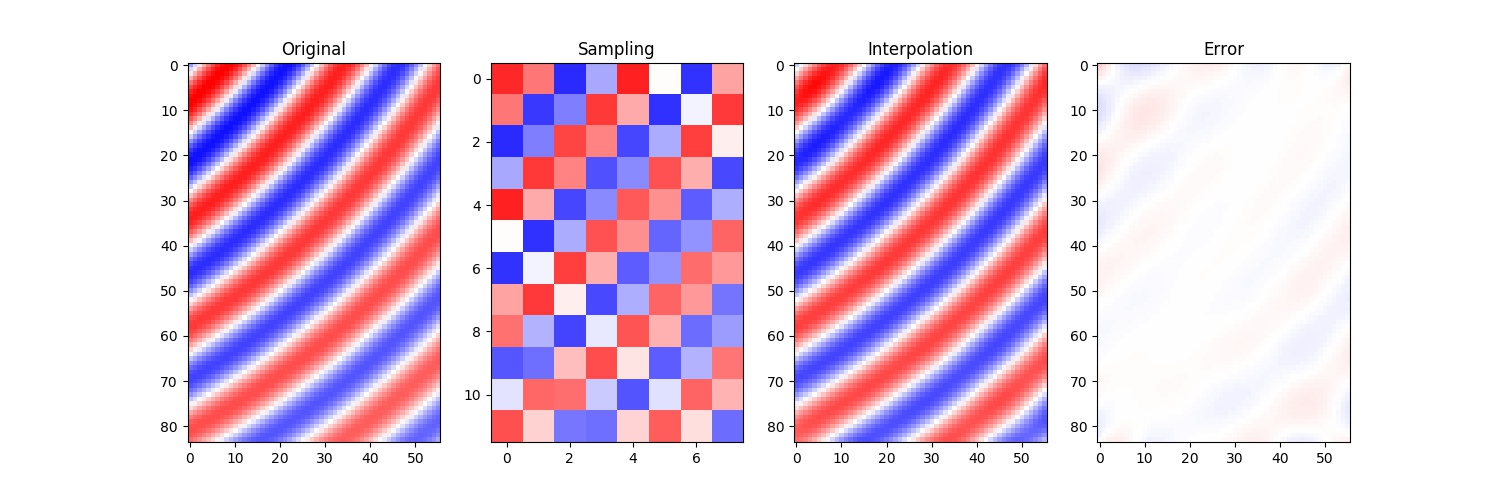
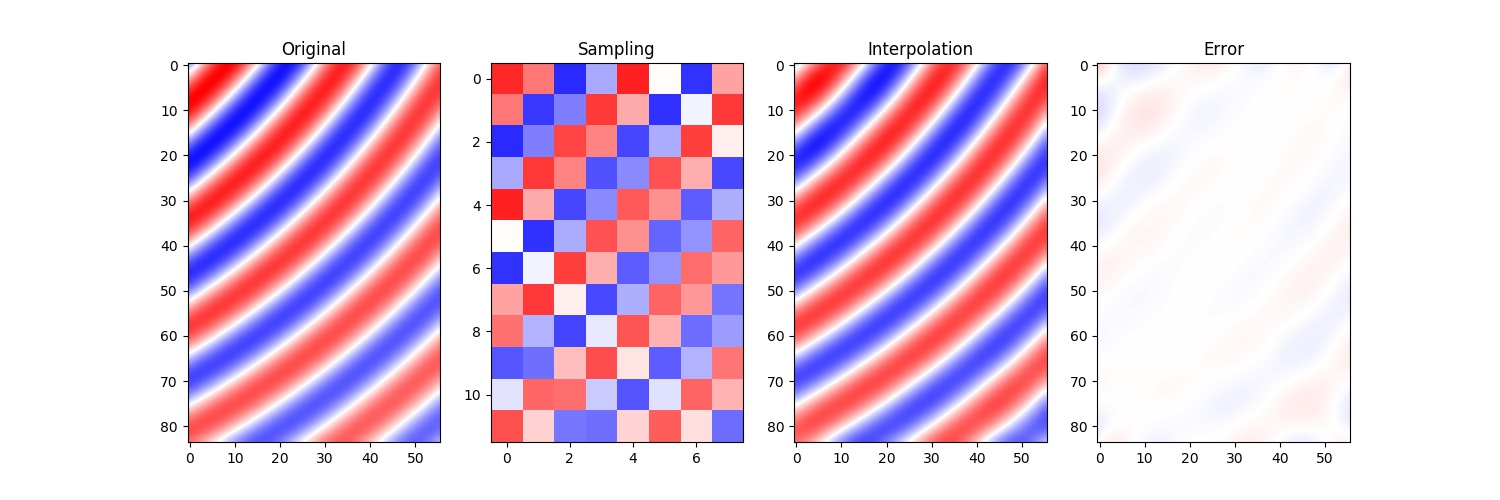
Change plt.imshow setting

diff --git a/sample.py b/sample.py
@@ -112,22 +112,22 @@ if __name__ == '__main__':
     ax0 = fig.add_subplot(141)
     ax0.set_title('Original')
     ax0.imshow(p_original / MAX, cmap=plt.cm.bwr,
-            vmin=-1., vmax=1., interpolation='None')
+            vmin=-1., vmax=1., interpolation='bicubic')
 
     ax1 = fig.add_subplot(142)
     ax1.set_title('Sampling')
     ax1.imshow(p_sampling / MAX, cmap=plt.cm.bwr,
-            vmin=-1., vmax=1., interpolation='None')
+            vmin=-1., vmax=1., interpolation='none')
 
     ax2 = fig.add_subplot(143)
     ax2.set_title('Interpolation')
     ax2.imshow(p_interpolation / MAX, cmap=plt.cm.bwr,
-            vmin=-1., vmax=1., interpolation='None')
+            vmin=-1., vmax=1., interpolation='bicubic')
 
     ax3 = fig.add_subplot(144)
     ax3.set_title('Error')
     ax3.imshow(err / MAX, cmap=plt.cm.bwr,
-            vmin=-1., vmax=1., interpolation='None')
+            vmin=-1., vmax=1., interpolation='bicubic')
 
     #plt.savefig('sample.jpg')
     plt.show()
